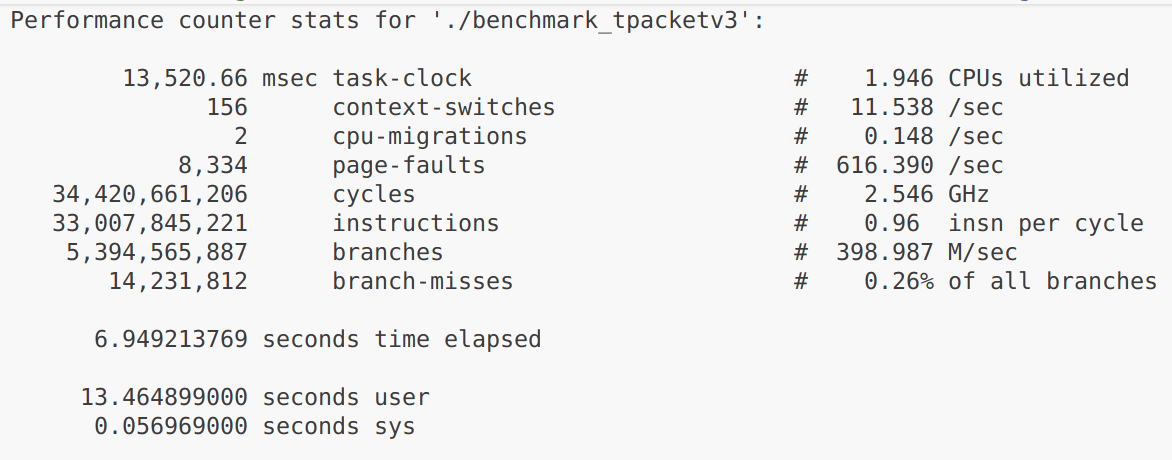
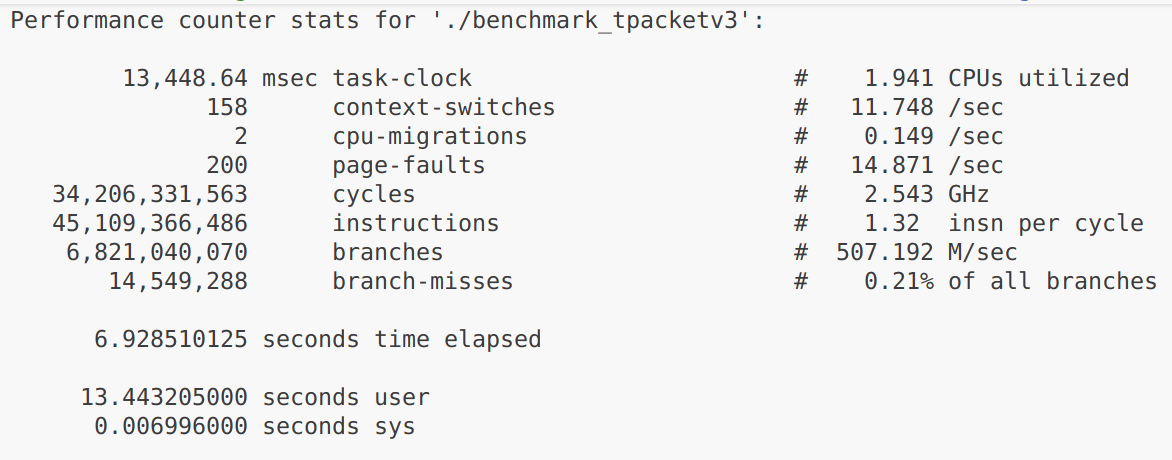
update screenshot

diff --git a/test/benchmarking/custom/benchmark_tpacketv3.cpp b/test/benchmarking/custom/benchmark_tpacketv3.cpp
@@ -103,6 +103,11 @@ int main() {
     std::thread gapTimerThread(gapTimer);
     uint32_t NUM_MESSAGES = 10000000;
     auto now = std::chrono::steady_clock::now();
+
+    // Force the TLB to cache the seen array
+    for (size_t i = 0; i < WINDOW_SIZE; i += 1) {
+        GlobalState::seen[i].store(0, std::memory_order_relaxed);
+    }
     // 8. Loop over the shared ring buffer in modulo pattern so we continuously iterate
      // Ensure the frame index is always within the frame count of the shared ring buffer
     uint32_t mcast_ip = inet_addr(MULTICAST_IP);

diff --git a/src/main.cpp b/src/main.cpp
@@ -114,10 +114,6 @@ int main() {
     uint32_t mcast_ip = inet_addr(MULTICAST_IP);
     uint16_t dest_port = htons(PORT);
 
-    // Force the TLB to cache the seen array
-    for (size_t i = 0; i < WINDOW_SIZE; i += 1024) {
-        GlobalState::seen[i].store(0, std::memory_order_relaxed);
-    }
     // Create poll object so process doesnt busy wait, let kernel wake process when block ready
     pollfd pfd{};
     pfd.fd = sockfd;

diff --git a/src/parse.h b/src/parse.h
@@ -11,7 +11,7 @@ enum LogLevel {
 
 // Size of the sliding window used for determining whether packets were received
 // out of order, as duplicates or lost
-constexpr size_t WINDOW_SIZE = 8*1024*1024; //8MB window size
+constexpr size_t WINDOW_SIZE = 65536; //8MB window size
 
 enum MessageSize {
     Trade = 36,
